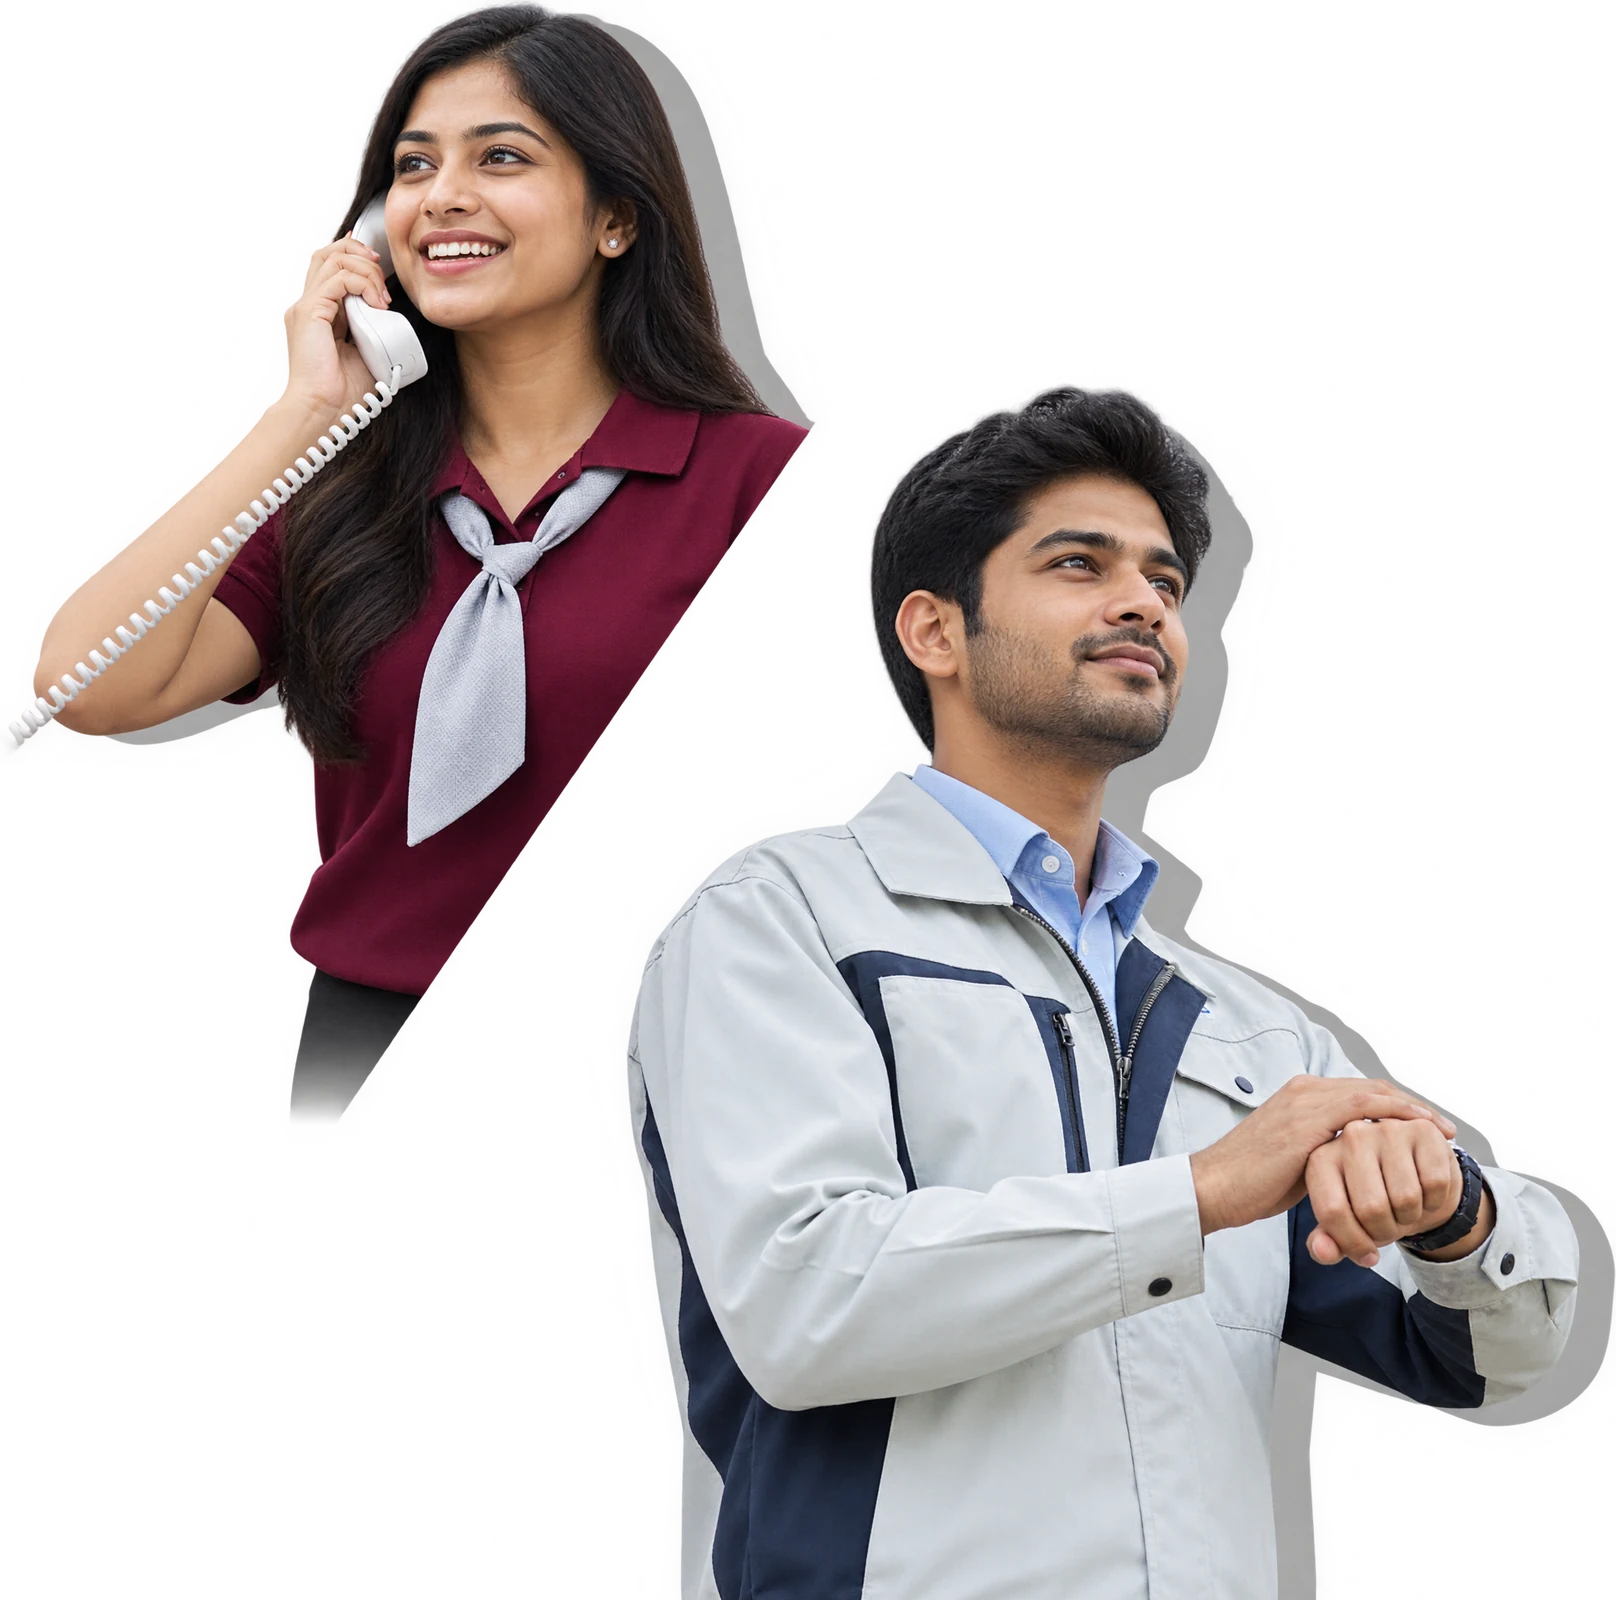
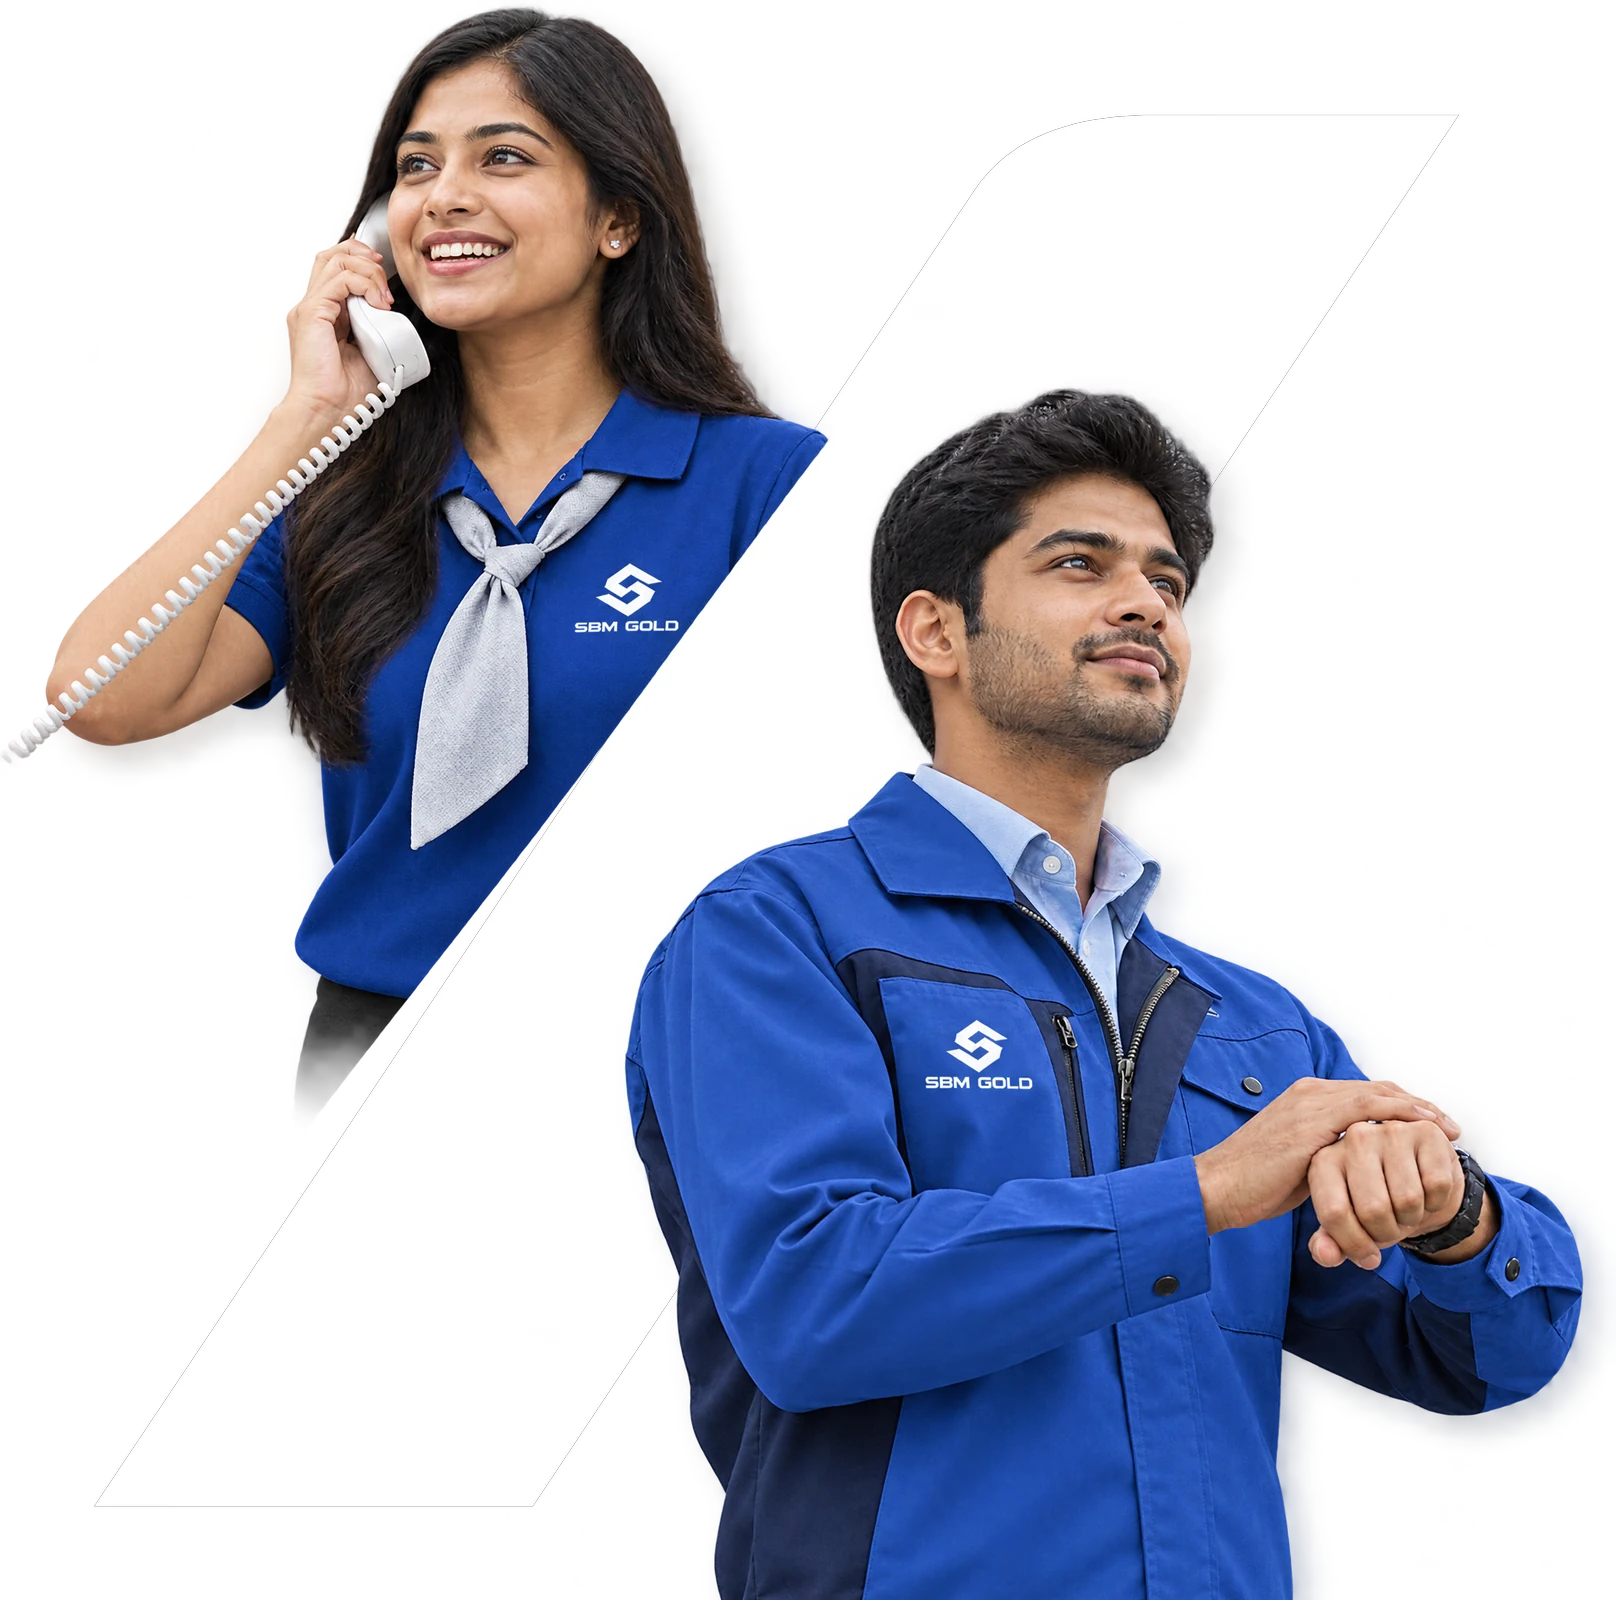
fix: append cache-busting version query parameter to partner image source

diff --git a/app/page.tsx b/app/page.tsx
@@ -1528,7 +1528,7 @@ export default function Home() {
             </div>
             <div className="imgarea">
               <img
-                src="/images/sbm/partner-img.webp"
+                src="/images/sbm/partner-img.webp?v=2"
                 width="808"
                 height="800"
                 alt="Partner with SBM Gold in India"
